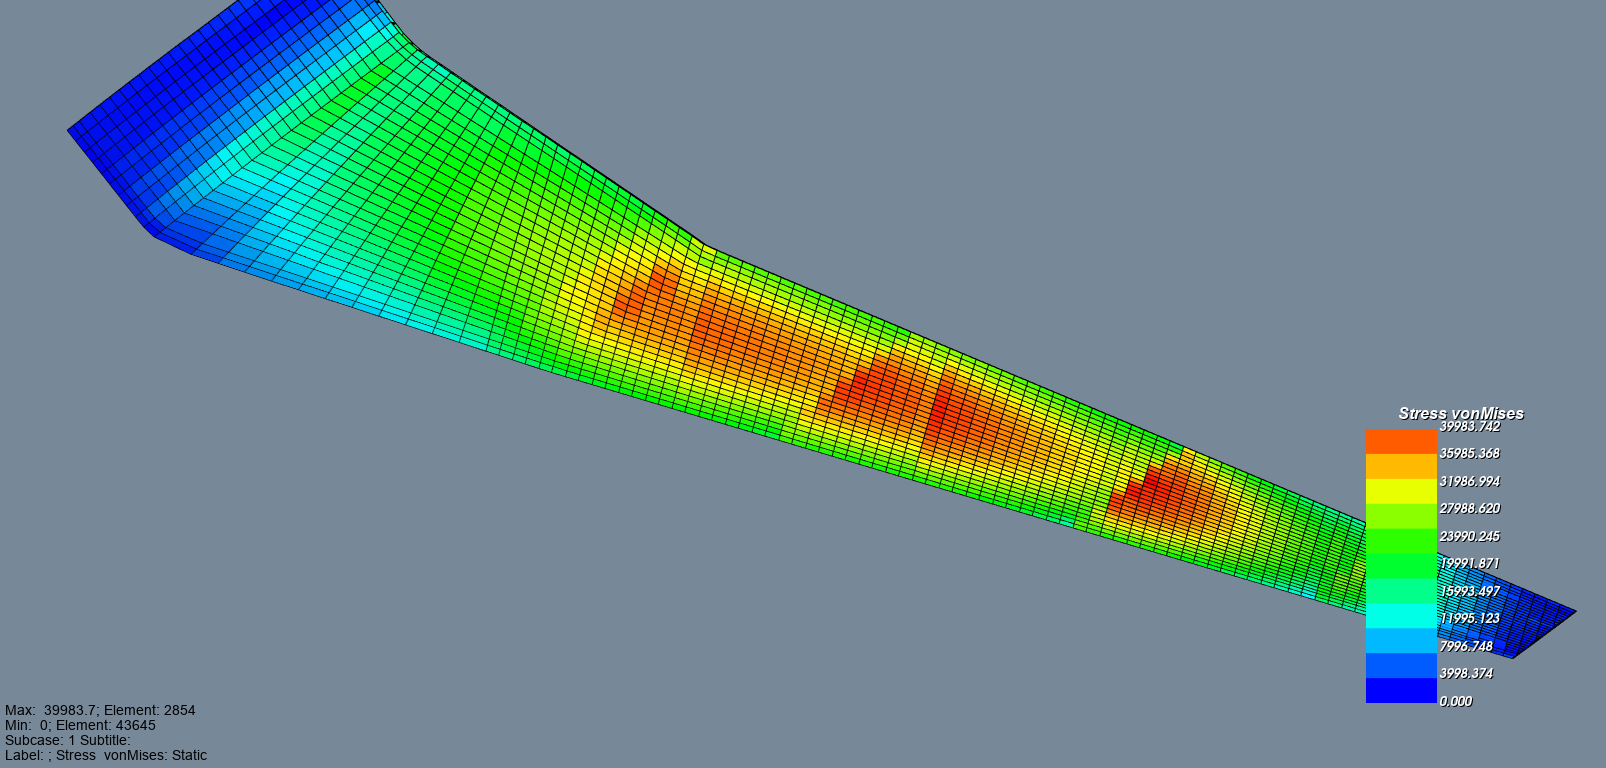
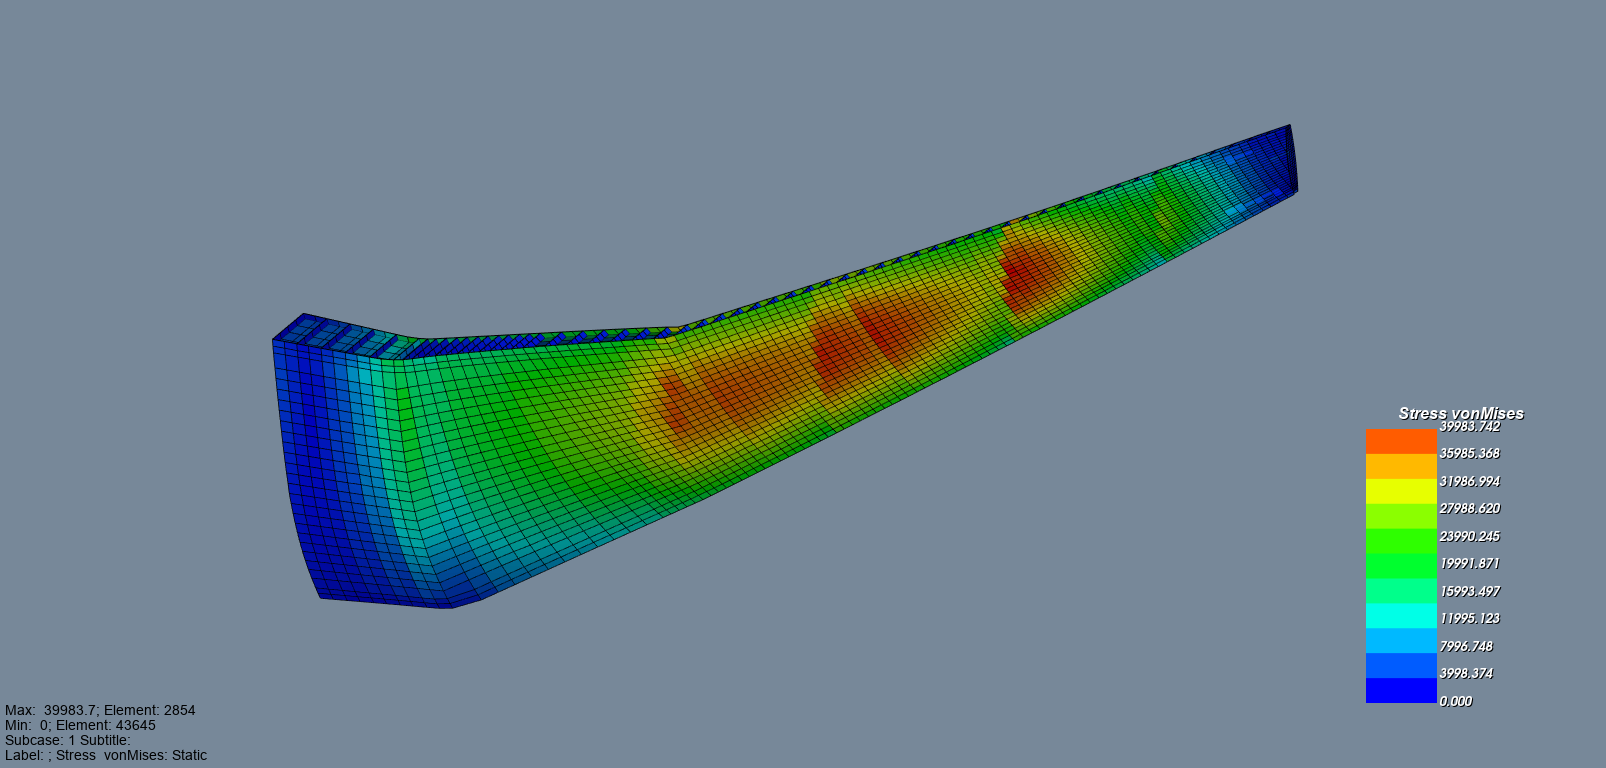
Switch governing-element camera to nearest isometric octant
Continuously aiming straight down the governing element's exact face
normal was precise but arbitrary-looking, and more sensitive to messy
per-element geometry (a slightly warped quad skews the whole computed
direction). Isometric views -- equal angle to all three world axes -- are
the standard engineering-drawing convention for exactly this situation:
no single axis is degenerate, so nothing can collapse edge-on.

Replaced the continuous aim with a discrete pick among the 8 canonical
isometric octants, choosing whichever one has the highest dot product with
the governing element's outward normal. Trades a hard occlusion guarantee
(nothing else in the model can be further out along the exact normal) for
a softer one (the element stays close to face-on from a recognizable,
standard angle) -- confirmed against a real render of the full wingbox:
the result is a proper isometric drawing with visible depth (the wing-root
end cap is now visible) rather than the previous near-flat, dead-on view,
and the governing element is still clearly visible.

Updated the one existing test that assumed the old continuous-normal
behavior (camera offset from focal point purely along Z) to check the new
invariant instead: the camera sits at a true isometric octant (equal-
magnitude x/y/z offset) whose sign agrees with the element's own normal.

diff --git a/scripts/mcp_server.py b/scripts/mcp_server.py
@@ -680,14 +680,24 @@ def _camera_look_direction_for_governing_element(
     tuple[float, float, float], tuple[float, float, float], tuple[float, float, float]
 ] | None:
     """Compute (focal_point, camera_position, view_up) so a camera looking
-    through them stares straight down the outward face normal of whichever
-    plate element (CQUAD4/CTRIA3) has the governing (highest) von Mises
-    stress in op2_path -- see get_max_stress for why plate vs. bar stress
-    isn't blended into one number.
+    through them views the model from whichever isometric octant best faces
+    the outward face normal of whichever plate element (CQUAD4/CTRIA3) has
+    the governing (highest) von Mises stress in op2_path -- see
+    get_max_stress for why plate vs. bar stress isn't blended into one
+    number.
 
-    The point of aiming along the face normal specifically: it's the one
-    direction guaranteed to show that element unobstructed, since it's an
-    outer skin panel and nothing sits further outward along its own normal.
+    An isometric direction (equal angle to all three world axes) is a
+    standard engineering-drawing convention specifically because no single
+    axis is degenerate, so it can't collapse a flat panel edge-on the way a
+    "top"/"side" preset can. Rather than aiming continuously straight down
+    the governing element's own computed normal (this function's previous
+    approach), this picks whichever of the 8 canonical isometric octants
+    the element's normal points most toward (highest dot product) --
+    simpler, a more standard/recognizable view, and more robust to messy
+    per-element geometry (a slightly-off normal from a warped quad still
+    resolves to the same octant, rather than continuously skewing the
+    computed direction).
+
     camera_position is placed far enough out (2x the model's bounding-box
     diagonal) that a subsequent vtkRenderer.ResetCamera() call -- which
     preserves view direction/up but repositions along it to fit the whole
@@ -733,9 +743,14 @@ def _camera_look_direction_for_governing_element(
     if np.dot(centroid - bbox_center, normal) < 0:
         normal = -normal
 
+    octant_directions = np.array(
+        [[sx, sy, sz] for sx in (1.0, -1.0) for sy in (1.0, -1.0) for sz in (1.0, -1.0)]
+    ) / np.sqrt(3.0)
+    view_from_direction = octant_directions[np.argmax(octant_directions @ normal)]
+
     diag = float(np.linalg.norm(bbox_max - bbox_min))
-    camera_position = bbox_center + normal * diag * 2.0
-    up = _up_vector_for_best_frame_fit(normal, all_coords)
+    camera_position = bbox_center + view_from_direction * diag * 2.0
+    up = _up_vector_for_best_frame_fit(view_from_direction, all_coords)
 
     return (
         (float(bbox_center[0]), float(bbox_center[1]), float(bbox_center[2])),
@@ -878,10 +893,11 @@ def _build_postscript(
     custom_camera, when given, overrides the named azimuth/elevation preset
     entirely: (focal_point, position, view_up), all (x, y, z) world
     coordinates/vectors, computed by
-    _camera_look_direction_for_governing_element so the camera looks
-    straight down the outward face normal of the governing stress element --
-    guaranteeing an unobstructed view of it -- then vtkRenderer.ResetCamera()
-    fits the whole model to the frame along that fixed direction.
+    _camera_look_direction_for_governing_element so the camera views the
+    model from whichever isometric octant best faces the governing stress
+    element's outward face normal -- guaranteeing an unobstructed view of
+    it -- then vtkRenderer.ResetCamera() fits the whole model to the frame
+    along that fixed direction.
 
     want_stress_fringe searches the loaded result cases for one whose name
     matches "vonmises" case/whitespace/underscore-insensitively (pyNastran
@@ -1298,14 +1314,19 @@ def render_stress_contour(
     camera: "iso"/"top"/"side" (see _CAMERA_PRESETS), or the default,
     "auto". Without isolate_groups/isolate_property_ids, "auto" looks up the
     governing (highest von Mises) plate element via get_max_stress, then
-    points the camera straight down that element's outward face normal
-    before fitting the whole model to the frame -- because it's an outer
-    skin panel, nothing else in the model sits further outward along that
-    exact direction, so the governing element is guaranteed to be visible
-    and unobstructed rather than potentially hidden behind other geometry or
-    foreshortened edge-on the way a fixed preset can leave it. WITH
-    isolate_groups/isolate_property_ids, "auto" aims for the isolated
-    elements' shared face normal instead (see
+    views the model from whichever of the 8 canonical isometric octants
+    (equal angle to all three world axes -- the standard engineering-
+    drawing convention, chosen specifically because no single axis is
+    degenerate the way a "top"/"side" preset can be) best faces that
+    element's outward face normal, before fitting the whole model to the
+    frame. This isn't a hard occlusion guarantee the way aiming exactly
+    down the element's own normal would be (some other part of the model
+    could in principle sit further out along that octant's fixed diagonal),
+    but it keeps the governing element close to face-on and avoids the
+    foreshortened-edge-on failure mode a fixed preset can leave it in, while
+    being a simpler, more standard view than a continuously-computed exact
+    direction. WITH isolate_groups/isolate_property_ids, "auto" aims for the
+    isolated elements' shared face normal instead (see
     _camera_look_direction_for_isolated_group) -- isolating already removes
     any occlusion concern, so showing the isolated sub-component itself well
     (e.g. fanning out parallel ribs instead of collapsing them edge-on)

diff --git a/scripts/test_mcp_server.py b/scripts/test_mcp_server.py
@@ -373,13 +373,22 @@ def test_camera_look_direction_aims_at_governing_element(two_property_bdf: Path)
     focal_point, camera_position, view_up = result
 
     # two_property_bdf's elements are flat in the XY plane (all grids have
-    # z=0), so the outward face normal must be +-Z -- the camera should be
-    # looking straight down/up the Z axis, offset from the focal point only
-    # in Z, with an in-plane (XY) view_up.
-    assert camera_position[0] == pytest.approx(focal_point[0], abs=1e-3)
-    assert camera_position[1] == pytest.approx(focal_point[1], abs=1e-3)
-    assert abs(camera_position[2] - focal_point[2]) > 1.0
-    assert view_up[2] == pytest.approx(0.0, abs=1e-6)
+    # z=0), so their outward face normal is exactly +Z -- the camera should
+    # sit at one of the 8 isometric octants (equal-magnitude x/y/z offset
+    # from the focal point) whose Z component agrees in sign with that
+    # normal, i.e. it's actually facing the element rather than away from
+    # it. Which of the (here, tied) octants sharing that Z sign gets picked
+    # is an implementation-defined tiebreak, not a meaningful invariant, so
+    # this doesn't assert an exact direction.
+    import numpy as np
+
+    offset = np.array(camera_position) - np.array(focal_point)
+    direction = offset / np.linalg.norm(offset)
+    assert np.allclose(np.abs(direction), 1.0 / np.sqrt(3.0), atol=1e-6)
+    assert direction[2] > 0
+
+    assert np.linalg.norm(view_up) == pytest.approx(1.0, abs=1e-6)
+    assert np.dot(view_up, direction) == pytest.approx(0.0, abs=1e-6)
 
     from pyNastran.bdf.bdf import BDF
 

diff --git a/README.md b/README.md
@@ -74,10 +74,11 @@ Point an MCP client (e.g. Claude Desktop/Code config) at that command. Tools:
   when it has one (`ses_path`, see `ses_groups.py`), with property-ID
   filtering as the fallback. `camera` picks a named preset (`"iso"`,
   `"top"`, `"side"`) or `"auto"` (`render_stress_contour`'s default), which
-  aims itself instead of guessing: at the governing stress element's
-  outward face normal normally, or at an isolated group's shared face
-  normal (tilted to fan out parallel elements like ribs so each is
-  distinguishable) when isolating. `zoom` tightens the frame, auto-applied
+  aims itself instead of guessing: at whichever of the 8 canonical
+  isometric octants best faces the governing stress element normally, or
+  at an isolated group's shared face normal (tilted to fan out parallel
+  elements like ribs so each is distinguishable) when isolating. `zoom`
+  tightens the frame, auto-applied
   by default since a plain reset leaves significant empty margin. Isolating
   with `render_stress_contour` transparently trims the OP2 to match the
   isolated element set first -- pairing a filtered geometry with the full
